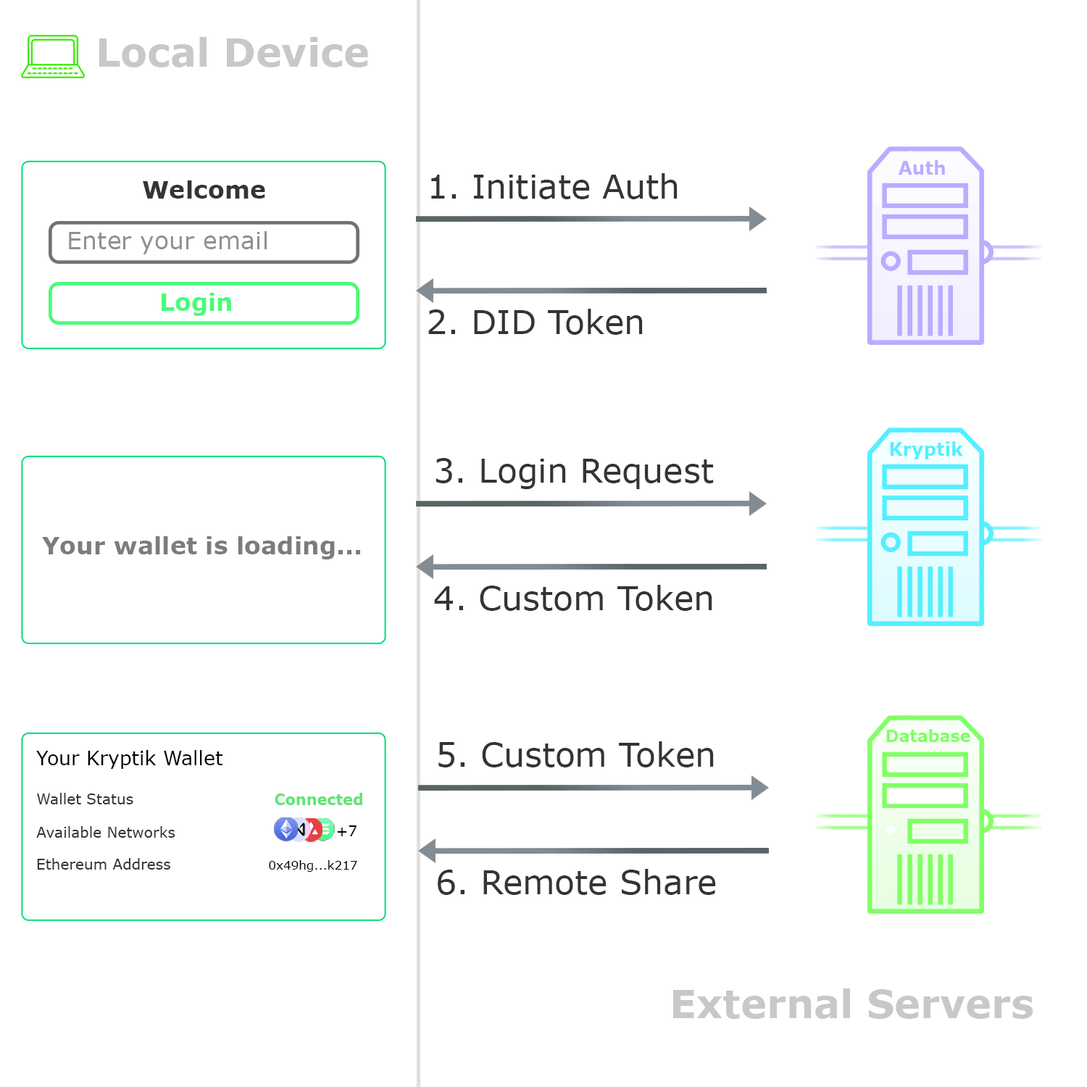
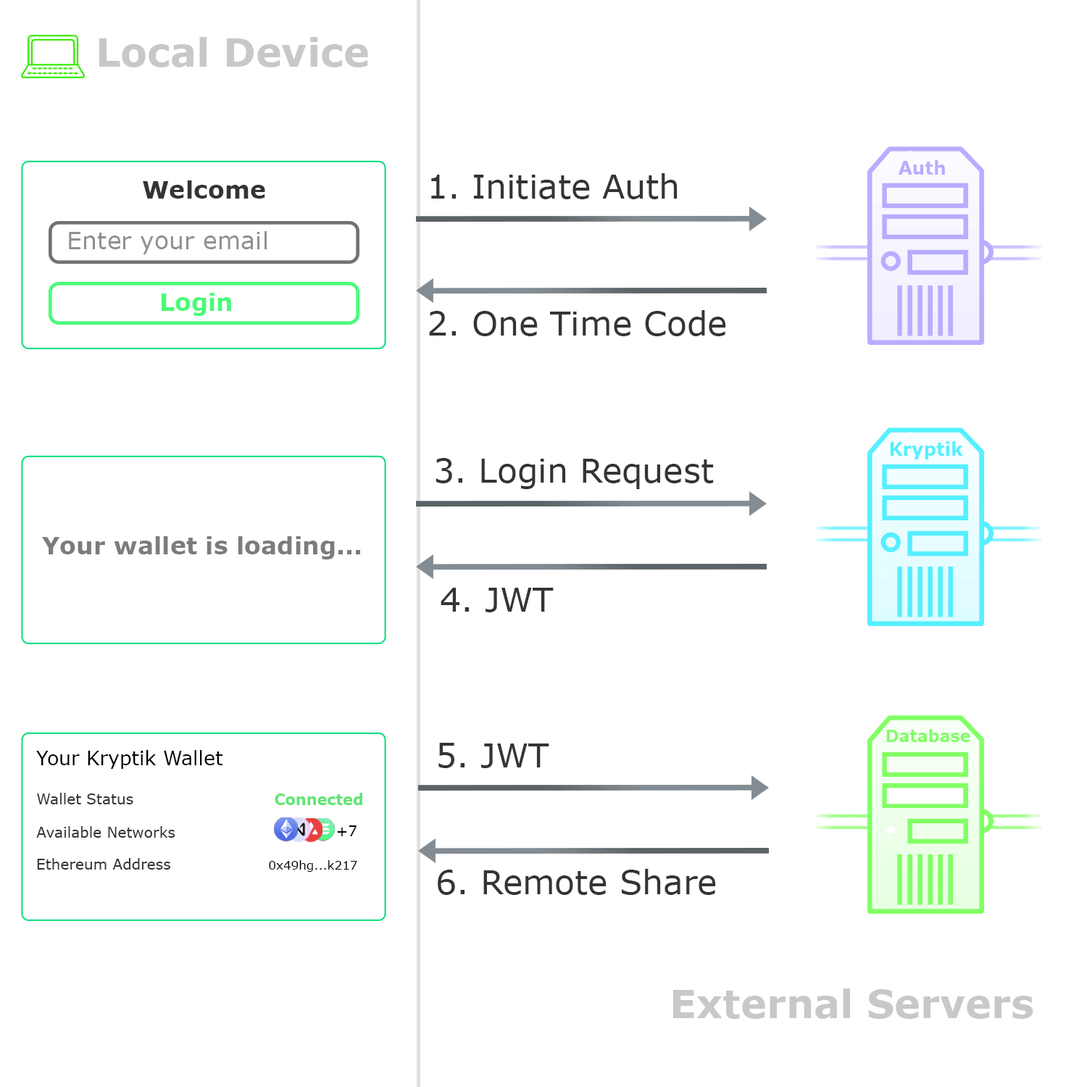
Update blog and docs to include SWORD

diff --git a/blog/sword.md b/blog/sword.md
@@ -1,0 +1,210 @@
+---
+title: "SWORD"
+oneLiner: "Digital wallets store sensitive secrets and billions of dollars. SWORD uses threshold cryptography to improve wallet security."
+image: "/blog/swordShareholderRing.jpg"
+lastUpdate: "2023-1-25"
+category: "Technology"
+contributorId: "jett"
+tags: ["cryptography", "internet", "computers", "keys", "security"]
+---
+
+Digital wallets enable essential applications like encrypted messaging and online banking. However, digital wallets are vulnerable to loss and theft. In this paper, we investigate current wallet standards. We show that multi-signature wallets are an insufficient replacement for classical hierarchical deterministic keychains. We address the usability concern of multi-signature wallets with threshold cryptography. SWORD improves the security of digital wallets by distributing account management across a group of shareholders. In addition to removing a single point of failure, SWORD simplifies the wallet experience by incorporating passwordless authentication. SWORD has been adopted and is used in the open-source Kryptik wallet.
+
+## 1. Introduction
+
+The internet relies on a peer-to-peer connection between computers, but the majority of services we use daily are centralized. While corporations like Chase and Facebook are easy to use, centralized convenience often comes at the cost of privacy and ownership.
+
+Since the development of Bitcoin in 2009, there has been a significant push to make the internet more decentralized. Blockchains like Bitcoin and Ethereum promise to shift power from the few to the many, opening a new frontier of digital exploration.
+
+A few examples of popular blockchain apps are shown below.
+
+- **Augur.** A prediction market for betting on real world events like sports games and election outcomes.
+- **Opensea.** A marketplace for digital collectibles.
+- **Lens.** A user controlled social media platform. Developers can use a standard interface.
+- **AAVE.** Lending and borrowing with over four billion dollars in assets.
+- **SIWE.** One click login using an Ethereum account.
+- **Uniswap.** A decentralized exchange for digital currencies.
+- **IPFS.** Store files on a global network of computers.
+
+Every blockchain application requires a digital wallet that can send and sign transactions. Since 2009, over one hundred million wallets have been created worldwide.
+
+## 2. Wallets Are Hard to protect
+
+One of the best parts of cryptocurrency wallets is the ability to control your own money and data. Unlike traditional banks or third-party services, no third party holds assets on your behalf. However, with great power comes great responsibility.
+
+> Over $85,000,000,000 worth of cryptocurrency has been permanently lost after users have lost access to their wallets.[^1]
+
+Today, holding your own cryptographic keys requires memorizing long mnemonic phrases, trusting third-party custodians, or purchasing complicated hardware wallets. These solutions are insufficient for most internet users looking for a simple way to manage private keys.
+
+## 3. Standard Solutions
+
+Noncustodial wallet management is an open problem, with an inherent tradeoff between security and ease of use. Standard solutions are shown below:
+
+**Multisig Wallets.** A multi-signature wallet requires multiple private keys to authorize transactions.
+
+**Smart Contract Wallets.** Smart contract wallets are just a multisig with extra bells and whistles for recovery and permissions. For example, Argent— a smart contract wallet with over four million accounts— allows ‘guardians’ to replace the account owner and set approvals for value-subtracting transactions.[^2]
+
+**Account Abstraction.** Account abstraction turns every blockchain account into a smart contract wallet.[^3] Account abstraction has not been implemented on major blockchains like Ethereum despite discussion since 2014.
+
+Smart contract wallets have been described as a breakthrough in the security and usability of crypto wallets; However, smart contracts have significant drawbacks, explained below:
+
+- **Network Specific.** Smart contract wallets are implemented as code that runs on a single blockchain. Chain-specific contracts require users to create a separate wallet for each blockchain which is a hassle and a security risk.
+- **Time Lag.** Adding guardians or transferring ownership requires a ‘security period’ that can last multiple days.
+  No UTXO support. Smart contract wallets require Turing-complete blockchains, so there is no support for transaction-based networks like Bitcoin.
+- **Variable fees.** Processing payments requires executing smart contract code, which can vary in cost for each wallet.
+- **Upfront cost.** Smart contract wallets require an initial setup fee to pay for the creation of a new contract on the blockchain.
+
+Large companies may benefit from the policies provided by smart contract wallets. However, smart contracts restrict wallets to a single blockchain and prevent users from accessing the benefits provided by a unique public-private key pair.
+
+**Multi-party computation (MPC).** MPC wallets require multiple participants to authorize a transaction. Unlike multi-signature wallets, MPC wallets submit a single signature to the blockchain, reducing transaction fees and enabling interoperability with multiple blockchains.
+However, multi-party computation protocols have high computation and communication requirements. The industry standard requires four rounds of online computation or seven rounds of pre-signing computation.[^4] In addition, most user-facing implementations like Coinbase dApp Wallet and Zengo allow a single computer to initiate a signing round.[^5]
+
+> MPC wallets are best suited for institutions that can maintain multiple independent signers.
+
+Multi-party computation also encourages walled gardens. Users are limited to the provider’s ecosystem without access to the wallet seed.
+
+## 4. Standard Solutions
+
+**Random Seeds.** At the core of every wallet is a single seed: a string of randomness. As a seed grows in length, the less likely it is to be guessed by an attacker.
+
+Most wallets use seeds with 256 bits of entropy. In practice, this looks like a long string of ones and zeros, with each character having two distinct possibilities. The number of possible seeds grows exponentially. For example, if a seed has 8 bits of entropy, there are $2^8$ (256) possibilities of what it could be. With 256 bits of entropy, there are 2^256 possible seeds, which is more than the number of atoms in the observable universe.
+
+| **Entropy As an Image**                                                                                                  |
+| :----------------------------------------------------------------------------------------------------------------------- |
+| ![Entropy as an Image](/blog/entropyAsAnImage.jpg)                                                                       |
+| _Entropy is a measure of randomness. The more entropy increases, the less likely a piece of information can be guessed._ |
+
+Seeds are hard to guess and are an ideal source for generating public-private key pairs.
+
+**Deterministic Wallets.** Early Bitcoin clients used a random stash of keys once per transaction. Once the initial supply of keys was exhausted, wallets would invalidate the backup; this made key management complex and insecure.[^6]
+
+Deterministic wallets simplify key management. A single seed can generate an unlimited number of keys. However, most deterministic wallets store keypairs on a single chain. Sharing a deterministic wallet is “all or nothing”: sharing a single key requires sharing all keys.
+
+**Hierarchical Deterministic Wallets.** Hierarchical deterministic wallets are structured as a tree of key pairs. A single master key is stored at the root, and new child keys are derived from a unique derivation path. Each path of the HD tree can be shared without exposing the complete tree.
+
+| **HD Tree**                                                               |
+| :------------------------------------------------------------------------ |
+| ![Entropy as an Image](/blog/hdtree.jpg)                                  |
+| _A tree of HD keypairs. Each branch represents a unique derivation path._ |
+
+> For cryptocurrency wallets, each blockchain has a unique derivation path. The derivation path contains directions to a key’s location within the tree structure.
+
+HD wallets provide several benefits. For example, HD Wallets permit an online shop to accept payments at a new address for each order without giving the server access to the corresponding private keys (required for spending the received funds).
+
+## 5. Secure Wallet Origin Distribution (SWORD)
+
+To secure ownership and privacy across the web, we need a better way to protect asymmetric keys. Fortunately, threshold cryptography provides a neat solution.
+
+> As a quick reminder, threshold cryptography protects information by splitting pieces of a secret between groups.[^7]
+
+Instead of relying on a smart contract with trusted guardians, SWORD distributes shares of an encryption key to a group of shareholders; k of n shares are required to reconstruct the original secret.[^8] The encryption key creates an encrypted version of the wallet. Whenever a user wants to regain access to their wallet, the shares are reassembled, and the wallet is decrypted.
+
+| **SWORD Shareholders**                                                                                                                                                               |
+| :----------------------------------------------------------------------------------------------------------------------------------------------------------------------------------- |
+| ![KSWORD Shareholders](/blog/swordShareholderRing.jpg)                                                                                                                               |
+| _Kryptik key management splits a secret encryption key among n shareholders. Each share is represented as a coordinate point. K shares are required to recover the original secret._ |
+
+The Kryptik key management has a number of positive properties:
+
+- **Network Agnostic.** Kryptik is network agnostic. Use any blockchain you want.
+- **Quick recovery.** Account recovery takes seconds instead of days. Just log in like you would for any other app. Creating a new shareholder is also fast.
+- **Multi-factor Authentication.** Verify ownership of your account with a combination of any standard authentication scheme like 2fa.
+- **Predictable Fees.** Transaction verification logic is unmodified and the cost can be hard coded by applications.
+- **No setup cost.** No smart contracts need to be created or paid for.
+
+In short, Kryptik key management addresses the complexity, fees, and time delay of smart contract wallets. Furthermore, shareholders can be used for wallet recovery and authentication.
+
+## 6. Challenges
+
+While secret sharing improves the security of online wallets, there are several challenges. Each challenge presents tradeoffs between security and ease of use that must be addressed by Kryptik.
+
+**Ciphertext Storage.** Ciphertext storage presents a tradeoff between security and convenience. By keeping ciphertext on the original device, shareholders function as gatekeepers, releasing shares when specific criteria have been met: for example, when a login link has been clicked, or security questions have been answered. Since the wallet owner is the only one with access to the ciphertext, shareholder collusion will not compromise the wallet. The secret encryption key may be recovered, but decrypting the wallet is impossible without the corresponding ciphertext (held in local storage).
+
+> _Local Storage Drawback_
+>
+> Wallet recovery is no longer an option if the user's device is lost or stolen.
+
+Cloud storage removes the user's device as a single point of failure. Anyone who has access to the remote database has access to the ciphertext. If the database is a blockchain like Ethereum, then the wallet ciphertext is public and viewable by anyone. In this case, shareholder collusion would compromise the wallet.
+
+> _Cloud Storage Drawback_
+>
+> K of n shareholders can collude and decipher the public ciphertext.
+
+Permissioned databases like AWS provide an alternative to public storage on a blockchain. Users can upload a copy of the ciphertext to a cloud provider like AWS and benefit from server-side access control. However, each shareholder would need access to the database to retain the benefits of cloud recovery. At this point, the security assumptions become identical to the public model.
+
+| **Local Storage**                                          | **Cloud Storage**                                           |
+| ---------------------------------------------------------- | ----------------------------------------------------------- |
+| Keeps ciphertext on the same device that generates shares. | Keeps ciphertext on a remote database like AWS or Ethereum. |
+| A single copy. Easy to lose.                               | Multiple copies. Hard to lose.                              |
+| Recovery requires possession of the device.                | Recovery requires access to the database.                   |
+
+**Denial of shares.** Shareholders may refuse to respond. K of N shares are required to reconstruct the original secret. If more than M-K shareholders refuse to respond, there is no way to reconstruct the original secret.
+
+The wallet owner can keep k shares to avoid the ‘denial of shares’ attack, but this creates a single point of failure. Shares can be stored on separate devices, but there is still the underlying concern of a single person owning k shares.
+
+**False shares.** Malicious shareholders may cheat and submit incorrect shares. Cheating does not compromise wallet security, but it does impair recovery. A single incorrect share is enough to invalidate reconstruction.
+
+In the case of a cheater, the recovery protocol can cycle through k of m submitted shares to obtain a valid subset. Recovery is possible as long as k of m submitted shares are honest.
+
+## Kryptik Implementation Details
+
+Distributed key management is a general tool for sharing secrets online. While several secret sharing implementations— such as SLIP 044— have been proposed, each implementation suffers from various drawbacks that limit usability. SWORD uses encryption and authentication to achieve a better balance of security and usability. Specific design decisions made by SWORD are discussed below.
+
+**Optimal threshold.** SWORD requires two-of-three shares for wallet recovery. An external database manages one share; separate user devices store the remaining shares. The two-of-three threshold provides fault tolerance in case one of the shareholders becomes unresponsive.
+
+| **Shareholder**       | **Purpose**                                                               | **Holds Ciphertext?** |
+| --------------------- | ------------------------------------------------------------------------- | --------------------- |
+| Primary User Device   | Distributes shares and initiates transactions.                            | Yes                   |
+| Secondary User Device | Used for wallet recovery if the external database refuses to respond.     | Yes                   |
+| External Database     | Authenticates share requests. Release share if the request is authorized. | No                    |
+
+**Wallet Storage.** Local wallets are held in a software vault. Vaults are locked by default and can only be unlocked with a valid set of shares. The standard vault interface is shown below.
+
+```typescript
+interface VaultContents {
+  // ciphertext of encrypted seedloop
+  seedloopSerlializedCipher: string;
+  // version: default is 0
+  vaultVersion: number;
+  // share of the encryption key
+  localShare: string;
+  // timestamps stored as...
+  // number of milliseconds since the epoch
+  lastUnlockTime: number;
+  createdTime: number;
+  // user id generated by wallet app
+  uid: string;
+  // if unlock correct, should read "valid"
+  check: string;
+}
+```
+
+**Share Generation.** New vaults are encrypted with a 256-bit encryption key, which is then split into m shares. Shares are created using shamir secret sharing configured with a finite field in $Gf(2^8)$ and 128 bits of padding. Each shareholder receives a single share.
+
+**External Authentication.** An external authentication provider generates a one-time code, which is shared via email. After validation, the code is exchanged with the database for an access token, and the user session begins. No passwords are required.
+
+| **Kryptik Authentication Flow**                                                                                                             |
+| :------------------------------------------------------------------------------------------------------------------------------------------ |
+| ![Kryptik Authentication Flow](/blog/authenticationFlowPlain.png)                                                                           |
+| _The passwordless authentication flow. A one-time code is sent via email. After validation, the user can access the server’s secret share._ |
+
+**Recovery.** When a new user session begins, SWORD retrieves the database share and combines it locally to recover the original encryption secret. The wallet is then decrypted and made available for use. This arrangement results in a strong security scheme, where an attacker must compromise two of three systems to obtain a user’s private seed.
+
+> If the database is unresponsive, a share can be retrieved from the user’s secondary device via a QR code.
+
+**Synchronization.** Initial share distribution requires an exchange of credentials between the user’s primary and secondary devices. The user’s primary device displays two QR codes: one code for the local shamir share and one code for the wallet ciphertext. Both codes are protected from prying eyes by a temporary encryption key only authenticated users can access.
+
+After the QR codes have been scanned and decrypted, an identical vault (with a unique shamir share) is created on the secondary device.
+
+## Conclusion
+
+SWORD uses shamir secret sharing and symmetric encryption to improve wallet security. When implemented in software, SWORD provides users with a simple wallet experience that does not require passwords or smart contracts.
+
+[^1]: Charoenwong, Ben and Bernardi, Mario, A Decade of Cryptocurrency ‘Hacks’: 2011 – 2021 (October 1, 2021). Available at SSRN: https://ssrn.com/abstract=3944435 or http://dx.doi.org/10.2139/ssrn.3944435
+[^2]: Argent (2020, October 8). Guardian Approvals. Retrieved January 4, 2023, from https://support.argent.xyz/hc/en-us/articles/360008828238-Guardian-approvals-needed-
+[^3]: Ethereum (2021, September 29). EIP-4337: Account Abstraction Using Alt Mempool. Ethereum.org. Retrieved October 7, 2022, from https://eips.ethereum.org/EIPS/eip-4337
+[^4]: Canetti, R., Gennaro, R., Goldfeder, S., Makriyannis, N., & Peled, U. (2020). UC Non-Interactive, Proactive, Threshold ECDSA with Identifiable Aborts. In CCS 2020 - Proceedings of the 2020 ACM SIGSAC Conference on Computer and Communications Security (pp. 1769-1787). (Proceedings of the ACM Conference on Computer and Communications Security). Association for Computing Machinery. https://doi.org/10.1145/3372297.3423367
+[^5]: ZenGo (2018, June 28). Multi-party ECDSA. Github. Retrieved January 11, 2023, from https://github.com/ZenGo-X/multi-party-ecdsa
+[^6]: BitcoinWiki (2019, May 23). Deterministic Walet. Retrieved February 15, 2022, from https://en.bitcoinwiki.org/wiki/Deterministic_wallet
+[^7]: Alfredo De Santis, Yvo Desmedt, Yair Frankel, Moti Yung: How to share a function securely. STOC 1994: 522-533
+[^8]: Adi Shamir. 1979. How to share a secret. Commun. ACM 22, 11 (Nov. 1979), 612–613. https://doi.org/10.1145/359168.359176

diff --git a/blog/wallets.md b/blog/wallets.md
@@ -1,29 +1,12 @@
 ---
 title: "Digital Wallets"
-oneLiner: "Digital wallets store sensitive secrets and billions of dollars. Threshold cryptography improves wallet security."
-image: "/blog/kryptikShareholderRing.jpg"
-lastUpdate: "2022-12-6"
+oneLiner: "Every blockchain application requires a wallet that can send and sign transactions."
+image: "/blog/hdtree.jpg"
+lastUpdate: "2023-1-20"
 category: "Technology"
 contributorId: "jett"
 tags: ["cryptography", "internet", "computers", "keys", "security"]
 ---
-
-Digital wallets enable essential applications like encrypted messaging and online banking. However, digital wallets are vulnerable to loss and theft; compromised wallets are a severe issue, costing innocent people billions of dollars. Kryptik improves the security of digital wallets by distributing account recovery across a group of shareholders. In addition to removing a single point of failure, Kryptik simplifies the wallet experience by incorporating passwordless authentication. The Kryptik key management system has been adopted and is used in the open-source Kryptik wallet.
-
-## Reading Guide
-
-- [Introduction](#introduction)
-- [Random Seeds](#random-seeds)
-- [Deterministic Wallets](#deterministic-wallets)
-- [HD Wallets](#Hierarchical-deterministic-wallets)
-- [Security Problem](#wallets-are-hard-to-protect)
-- [Standard Solutions](#standard-solutions)
-- [Distributed Key Management](#distributed-key-management)
-- [Challenges](#challenges)
-- [Kryptik Implementation Details](#kryptik-implementation-details)
-- [Conclusion](#conclusion)
-
-## Introduction
 
 The internet relies on a peer-to-peer connection between computers, but the majority of services we use daily are centralized. While corporations like Chase and Facebook are easy to use, centralized convenience often comes at the cost of privacy and ownership.
 
@@ -40,6 +23,8 @@ A few examples of popular blockchain apps are shown below.
 - **IPFS.** Store files on a global network of computers.
 
 Every blockchain application requires a digital wallet that can send and sign transactions. Since 2009, over one hundred million wallets have been created worldwide.
+
+> Digital wallets enable essential applications like encrypted messaging and online banking.
 
 ## Random Seeds
 
@@ -123,79 +108,3 @@ The Kryptik key management has a number of positive properties:
 - **No setup cost.** No smart contracts need to be created or paid for.
 
 In short, Kryptik key management addresses the complexity, fees, and time delay of smart contract wallets. Furthermore, shareholders can be used for wallet recovery and authentication.
-
-## Challenges
-
-While secret sharing improves the security of online wallets, there are several challenges. Each challenge presents tradeoffs between security and ease of use that must be addressed by Kryptik.
-
-**Ciphertext Storage.** Ciphertext storage presents a tradeoff between security and convenience. By keeping ciphertext on the original device, shareholders function as gatekeepers, releasing shares when specific criteria have been met: for example, when a login link has been clicked, or security questions have been answered. Since the wallet owner is the only one with access to the ciphertext, shareholder collusion will not compromise the wallet. The secret encryption key may be recovered, but decrypting the wallet is impossible without the corresponding ciphertext (held in local storage).
-
-> _Local Storage Drawback_
->
-> Wallet recovery is no longer an option if the user's device is lost or stolen.
-
-Cloud storage removes the user's device as a single point of failure. Anyone who has access to the remote database has access to the ciphertext. If the database is a blockchain like Ethereum, then the wallet ciphertext is public and viewable by anyone. In this case, shareholder collusion would compromise the wallet.
-
-> _Cloud Storage Drawback_
->
-> K of n shareholders can collude and decipher the public ciphertext.
-
-Permissioned databases like AWS provide an alternative to public storage on a blockchain. Users can upload a copy of the ciphertext to a cloud provider like AWS and benefit from server-side access control. However, each shareholder would need access to the database to retain the benefits of cloud recovery. At this point, the security assumptions become identical to the public model.
-
-| **Local Storage**                                          | **Cloud Storage**                                           |
-| ---------------------------------------------------------- | ----------------------------------------------------------- |
-| Keeps ciphertext on the same device that generates shares. | Keeps ciphertext on a remote database like AWS or Ethereum. |
-| A single copy. Easy to lose.                               | Multiple copies. Hard to lose.                              |
-| Recovery requires possession of the device.                | Recovery requires access to the database.                   |
-
-**Denial of shares.** Shareholders may refuse to respond. K of N shares are required to reconstruct the original secret. If more than M-K shareholders refuse to respond, there is no way to reconstruct the original secret.
-
-The wallet owner can keep k shares to avoid the ‘denial of shares’ attack, but this creates a single point of failure. Shares can be stored on separate devices, but there is still the underlying concern of a single person owning k shares.
-
-**False shares.** Malicious shareholders may cheat and submit incorrect shares. Cheating does not compromise wallet security, but it does impair recovery. A single incorrect share is enough to invalidate reconstruction.
-
-In the case of a cheater, the recovery protocol can cycle through k of m submitted shares to obtain a valid subset. Recovery is possible as long as k of m submitted shares are honest.
-
-## Kryptik Implementation Details
-
-The specific design decisions made by Kryptik are discussed below.
-
-**Share Generation.** New wallets are encrypted and kept in local storage. The 256-bit encryption key is split into two shares. One share is held in local storage, and the other share is sent to a database. Shares are created using shamir secret sharing configured with a finite field in $Gf(2^8)$ and 128 bits of padding.
-
-**Wallet Storage.** Local wallets are held in a software vault. Vaults are locked by default and can only be unlocked with a valid set of shares. The standard vault interface is shown below.
-
-```typescript
-interface VaultContents {
-  // ciphertext of encrypted seedloop
-  seedloopSerlializedCipher: string;
-  // version: default is 0
-  vaultVersion: number;
-  // share of the encryption key
-  localShare: string;
-  // timestamps stored as...
-  // number of milliseconds since the epoch
-  lastUnlockTime: number;
-  createdTime: number;
-  // user id generated by wallet app
-  uid: string;
-  // if unlock correct, should read "valid"
-  check: string;
-}
-```
-
-**Authentication.** Kryptik uses an authentication provider to generate a decentralized identifier (DID) token, which is shared via email. After validation, the DID is exchanged with the database for an access token, and the user session begins. No passwords are required.
-
-| **Kryptik Authentication Flow**                                                                                                                 |
-| :---------------------------------------------------------------------------------------------------------------------------------------------- |
-| ![Kryptik Authentication Flow](/blog/authenticationFlowPlain.png)                                                                               |
-| _Kryptik’s passwordless authentication flow. The DID token is sent via email. After validation, the user can access the server’s secret share._ |
-
-**Recovery.** When a new user session begins, Kryptik retrieves the database share and combines it locally to recover the original encryption secret. The wallet is then decrypted and made available for use. This arrangement results in a two-of-two security scheme, where an attacker must compromise both systems to obtain a user’s private seed.
-
-**Synchronization.** The primary device displays two QR codes: one code for the local shamir share and one code for the wallet ciphertext. Both codes are protected by a temporary encryption key that can only be accessed by authenticated users.
-
-After the QR codes have been scanned and decrypted, an identical wallet is created on the secondary device.
-
-## Conclusion
-
-Kryptik uses shamir secret sharing and symmetric encryption to improve wallet security. When implemented in software, the Kryptik key management system provides users with a simple wallet experience that does not require passwords or smart contracts.

diff --git a/developerDocs/recovery.md b/developerDocs/recovery.md
@@ -26,10 +26,10 @@ Kryptik key management has several favorable properties:
 
 Kryptik uses an authentication provider to generate a decentralized identifier (DID) token, which is shared via email. After validation, the DID is exchanged with the database for an access token, and the user session begins. No passwords are required.
 
-| **Kryptik Authentication Flow**                                                                                                                 |
-| :---------------------------------------------------------------------------------------------------------------------------------------------- |
-| ![Kryptik Authentication Flow](/blog/authenticationFlowPlain.png)                                                                               |
-| _Kryptik’s passwordless authentication flow. The DID token is sent via email. After validation, the user can access the server’s secret share._ |
+| **Kryptik Authentication Flow**                                                                                                                     |
+| :-------------------------------------------------------------------------------------------------------------------------------------------------- |
+| ![Kryptik Authentication Flow](/blog/authenticationFlowPlain.png)                                                                                   |
+| _Kryptik’s passwordless authentication flow. The one time code is sent via email. After validation, the user can access the server’s secret share._ |
 
 ## Recovery
 
